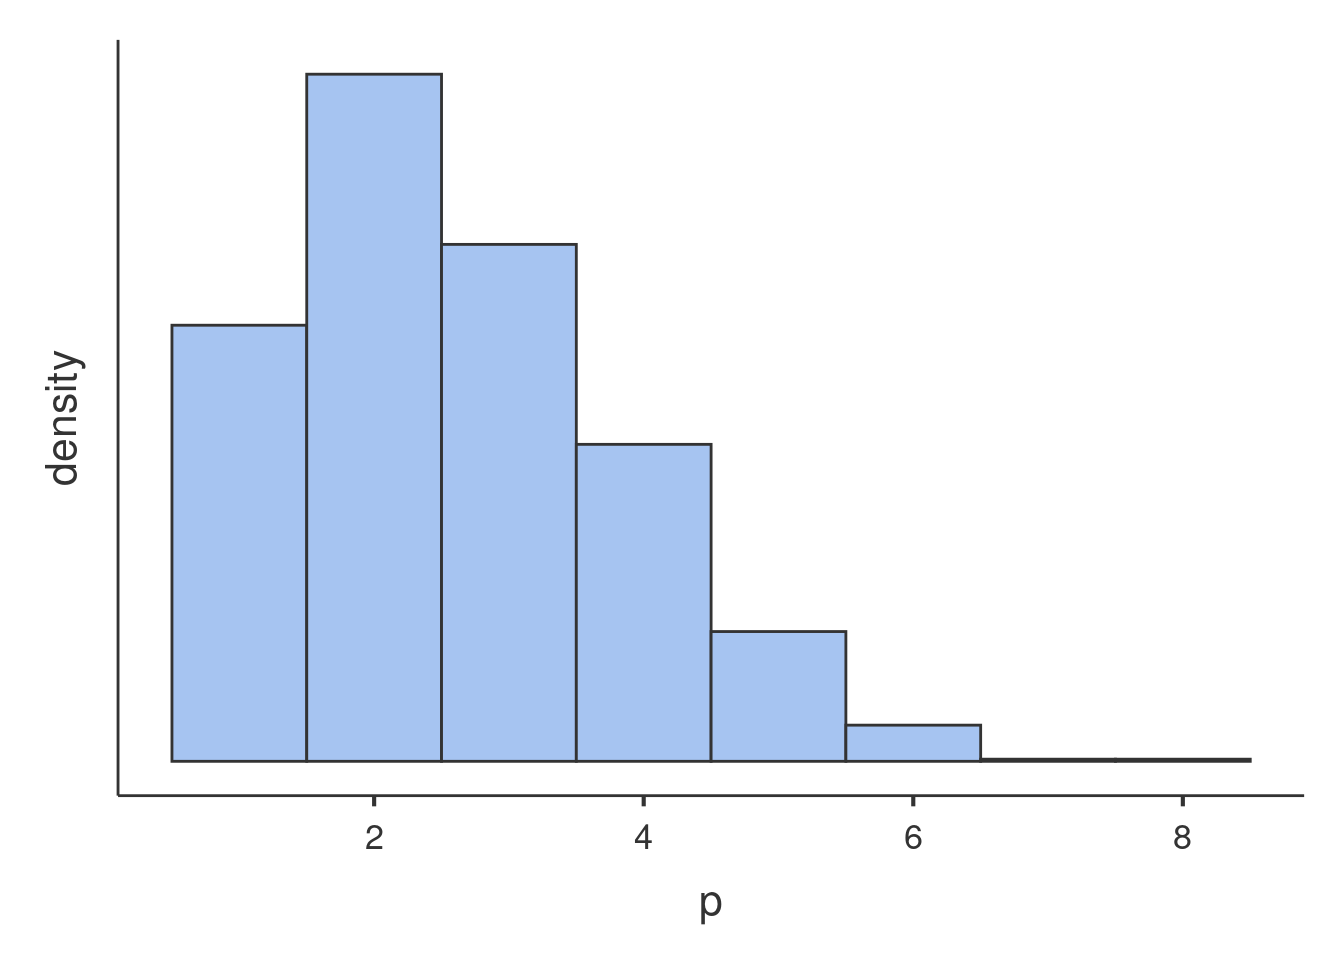
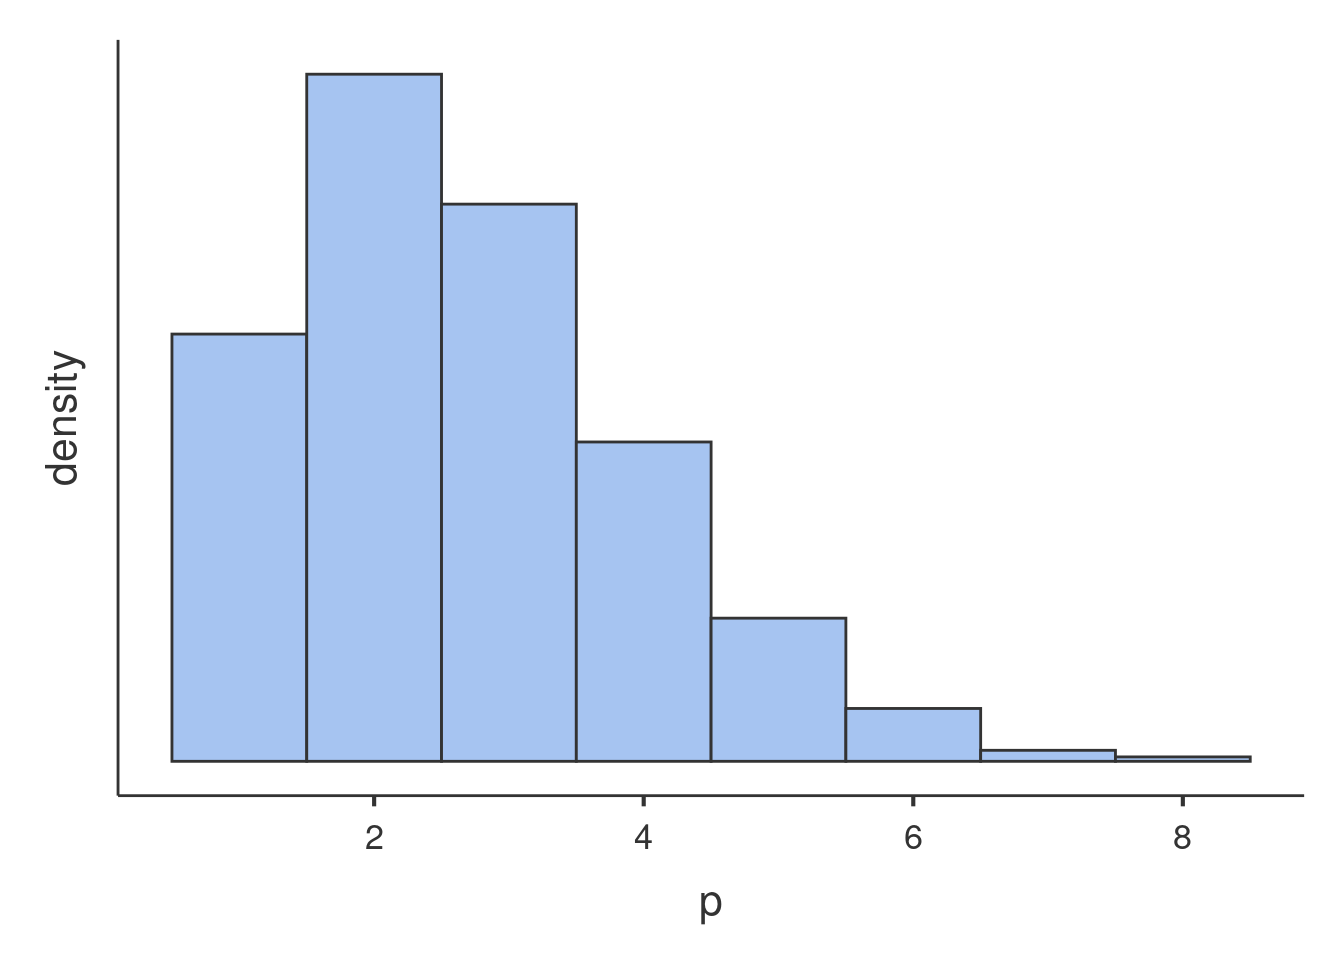
updates

diff --git a/glmmixed_example2.html b/glmmixed_example2.html
@@ -389,7 +389,7 @@ div.tocify {
 <p><img src="glmmixed_example2_files/figure-html/unnamed-chunk-2-1.png" width="672" /></p>
 <p>Glancing at the histogram makes it clear that the distribution is not normal, but it roughly resembles the Poisson distribution. Here is an example of Poisson distribution with equivalent mean.</p>
 <p><img src="glmmixed_example2_files/figure-html/unnamed-chunk-3-1.png" width="672" /></p>
-<p>We can see that the shape of our distribution is not qualitatively very different as compared with a theoretical Poisson distribution, so a Generalized Linear Model with Poisson distribition may work. However, we can check wheather our distribution is in line with the features of the Poisson dist by checking its mean and variance. The Poisson distribution has variance equal to the mean, in fact the simulated distribution in the histogram has <span class="math inline">\(\bar{x}=1.598\)</span> and <span class="math inline">\(s^2=1.57\)</span>. The <code>art</code> variable distribution has <span class="math inline">\(\bar{x}=1.693\)</span> and <span class="math inline">\(s^2=3.71\)</span>, with a ratio variance/mean of 2.191, which does not really qualify for Poisson dist. This looks like a case of <strong>overdispersion</strong>, <a href="http://bbolker.github.io/mixedmodels-misc/glmmFAQ.html#overdispersion">cf. here for details</a>. We will than consider a Negative Binomial model to account for possible overdispersion.</p>
+<p>We can see that the shape of our distribution is not qualitatively very different as compared with a theoretical Poisson distribution, so a Generalized Linear Model with Poisson distribition may work. However, we can check wheather our distribution is in line with the features of the Poisson dist by checking its mean and variance. The Poisson distribution has variance equal to the mean, in fact the simulated distribution in the histogram has <span class="math inline">\(\bar{x}=1.677\)</span> and <span class="math inline">\(s^2=1.736\)</span>. The <code>art</code> variable distribution has <span class="math inline">\(\bar{x}=1.693\)</span> and <span class="math inline">\(s^2=3.71\)</span>, with a ratio variance/mean of 2.191, which does not really qualify for Poisson dist. This looks like a case of <strong>overdispersion</strong>, <a href="http://bbolker.github.io/mixedmodels-misc/glmmFAQ.html#overdispersion">cf. here for details</a>. We will than consider a Negative Binomial model to account for possible overdispersion.</p>
 <p>An example of Negative Binomial distribution with equivalent mean and variance is here.</p>
 <p><img src="glmmixed_example2_files/figure-html/unnamed-chunk-4-1.png" width="672" /></p>
 <p>The second issue one needs to deal with is the structure of the data. We have seen that the students are not a random sample of students drawn independently one each other, but they are grouped by the program they are enrolled in. There are 83 programs, in each program there are on average 11 students. Because students in the same program may be more similar one each other than across programs, <code>programs</code> may cluster the scores of the dependent variable and create dependency in the data. To take dependency into the account, we will use a random intercepts model estimated with a Generalized Mixed Model.</p>

diff --git a/vignettes_gamljGlm (Case Conflict).html b/vignettes_gamljGlm (Case Conflict).html
@@ -13,7 +13,7 @@
 
 <meta name="date" content="2021-03-10" />
 
-<title>Examples of gamljGlm()</title>
+<title>Examples of gamljGlm</title>
 
 <script src="site_libs/jquery-1.11.3/jquery.min.js"></script>
 <meta name="viewport" content="width=device-width, initial-scale=1" />
@@ -369,7 +369,7 @@ div.tocify {
 
 
 
-<h1 class="title toc-ignore">Examples of gamljGlm()</h1>
+<h1 class="title toc-ignore">Examples of gamljGlm</h1>
 <h4 class="author">Marcello Gallucci</h4>
 <h4 class="date">2021-03-10</h4>
 

diff --git a/release_notes.html b/release_notes.html
@@ -389,6 +389,7 @@ div.tocify {
 <li><p>Fix gamlj_simpleEffects() output</p></li>
 <li><p>add plot to the R interface</p></li>
 <li><p>Suppress annoying warnings</p></li>
+<li><p>plot() function in R</p></li>
 </ul>
 </div>
 <div id="version.2.3.1-current" class="section level1">

diff --git a/vignettes.html b/vignettes.html
@@ -387,7 +387,7 @@ div.tocify {
 <ul>
 <li>
 <h2 class="vignettes">
-<a href="vignettes_gamljGlm.html">Examples of gamljGlm</a>
+<a href="vignettes_gamljGlm.html">Examples of gamljGlm()</a>
 </h2>
 </li>
 </ul>
